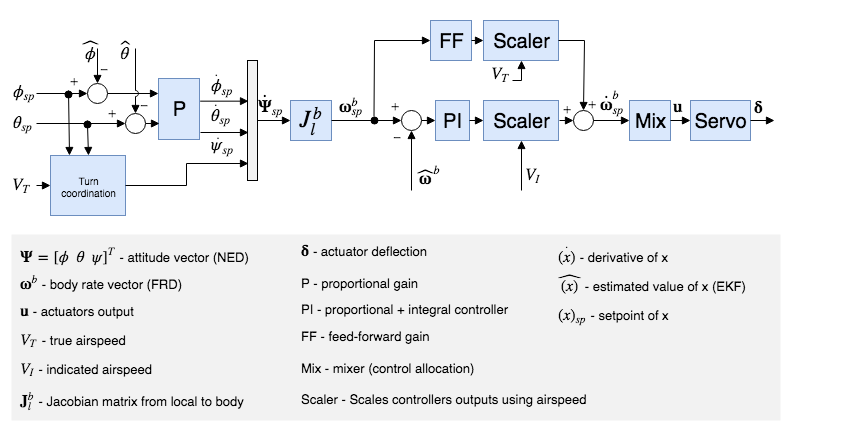
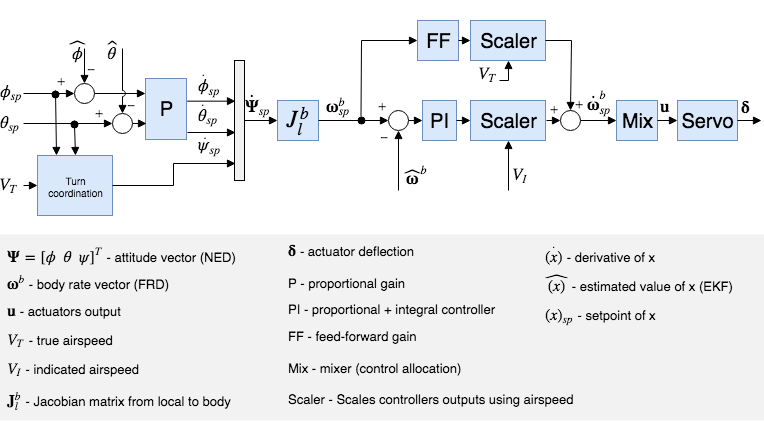
nearly done with the wing

diff --git a/_site/blog/wing/index.html b/_site/blog/wing/index.html
@@ -176,6 +176,10 @@
 				<td>GPS</td>
 				<td>mRo GPS module with a u-Blox Neo-M8N and included compass for 3D localization tuned for GPS and GLONASS networks</td>
 			</tr>
+			<tr>
+				<td>Telemetry Radios</td>
+				<td>mRo 915Mhz SiK telemetry radios for two-way telemetry downlink and command upload from the ground control station</td>
+			</tr>
 		</tbody>
 	</table>
 </div>
@@ -184,23 +188,42 @@
 
 <h3 id="px4-flight-stack">PX4 Flight Stack</h3>
 
-<p>I’ve used variants of the PX4 open source flight control firmware stack before, but only for multirotors. I read through the PX4 <a href="https://docs.px4.io/en/">User Guide</a> as well as the <a href="https://dev.px4.io/en/">Dev Guide</a> in order to better understand the important differences between the vehicle architectures. Aside from the low level controllers, mixers, and flight modes, there are few differences between the fixed-wing and multirotor workflows.</p>
+<p>I’ve used variants of the <a href="https://github.com/PX4/Firmware">PX4</a> open source flight control firmware before, but only for multirotors. I read through the PX4 <a href="https://docs.px4.io/en/">User Guide</a> as well as the <a href="https://dev.px4.io/en/">Dev Guide</a> in order to better understand the important differences between the vehicle architectures. Aside from the low level controllers, mixers, and flight modes, there are few differences between the fixed-wing and multirotor workflows.</p>
+
+<p>Now we can get into the good stuff: below is a block diagram for PX4’s stock fixed-wing attitude controller pulled from the dev guide. It’s a proportional attitude controller which cascades into a PI angular rates controller. The output of the controller is the desired angular acceleration, which is then translated into control surface servo position based on a priori knowledge of the vehicle - moments of inertia, area of the control surfaces, etc. These parameters can be collected from CAD or from manual test flights where the controller is turned off.</p>
+
+<p><span class="image main"><img src="/images/wing/part2/controller.png" alt=""></span></p>
+
+<p>Some points of interest on this controller: the scaler block which appears after the PI angular rates controller is a function of indicated airspeed. This is to account for the increase in control authority with increasing airspeed. Conversely, the control gains should be boosted at low airspeeds to achieve the same angular accelerations about each axis.</p>
+
+<p>Also, there’s a feedforward term that appears near the top of the diagram. This shows up to account for “aerodynamic damping.” This is a force experienced by a fixed wing aircraft, proportional to the angular rate about an axis, which resists that rotation. If you imagine pulling continuous barrel rolls in a delta wing aircraft, it’s intuitive that there’s some extra drag associated with churning the wings through the oncoming air. The feedforward term in the controller fights that damping effect.</p>
+
+<h3 id="autonomous-flight">Autonomous Flight</h3>
+
+<p>Here’s the completed wing <em>after</em> my first few test flights (you’ll notice its still in one piece).</p>
+
+<!-- something about how I threw the plane up to test autonomous flight without tuning anything or attempting any manual tests. preface the video saying who threw it and who was filming. something about having to strap the gopro to the top, what was the flight procedure???  -->
 
 <p><span class="image main"><img src="/images/wing/part2/13_wing_main.jpg" alt=""></span></p>
 
-<p><span class="image main"><img src="/images/wing/part2/controller.png" alt=""></span></p>
+<div class="video-wrapper">
+	<div class="video-responsive">
+		<iframe width="560" height="315" src="https://www.youtube.com/embed/DpW5teHLzwI?rel=0" frameborder="0" allow="autoplay; encrypted-media" allowfullscreen=""></iframe>
+	</div>
+</div>
+
+<h3 id="telemetry-analysis">Telemetry Analysis</h3>
+
+<p>My favorite part of this dive into the vanilla PX4 code base was the absolutely beautiful telemetry log viewer, its called Flight Review. <a href="https://logs.px4.io/plot_app?log=49eeeb7c-ef61-4775-9a70-3fd3f24ef544">Here</a> is a sample of the interface with my actual flight data. It’s a completely web-based interface with a dead simple UI. You simply upload a log file saved to the Pixhawk’s SD card for each flight and it displays the pertinent data in an intuitive and interactive way. There’s even built-in support for a full 3D renders of flight trajectory via <a href="https://cesiumjs.org/">Cesium</a>, including real time playback. Click <a href="https://logs.px4.io/3d?log=49eeeb7c-ef61-4775-9a70-3fd3f24ef544">here</a> to check out a Cesium render of one of my autonomous test flights performing a circular loiter at 50m in altitude at a 30m radius.</p>
+
+<p><span class="image main"><img src="/images/wing/part2/map.png" alt=""></span></p>
 
 <p><span class="image main"><img src="/images/wing/part2/attitude_plot.png" alt=""></span></p>
 
 <p><span class="image main"><img src="/images/wing/part2/roll_plot.png" alt=""></span></p>
 
-<p><span class="image main"><img src="/images/wing/part2/power_plot.png" alt=""></span></p>
-
-<p>[VIDEO EDIT OF FLIGHT TEST OF NEW BUILD]</p>
-
-<p>[SOME PICTURES OF GRAPHS AND 3D TRAJECTORY LOGGING IN PX4, SOME INFO ON THE CONTROL SYSTEM?]</p>
-
-<p>For a full 3D render of this test flight via <a href="https://cesiumjs.org/">Cesium</a>, including real time playback click <a href="https://logs.px4.io/3d?log=49eeeb7c-ef61-4775-9a70-3fd3f24ef544">here</a>.</p>
+<!-- [The project was fun, learned a lot, want to do some stuff in the future like what?]
+ -->
 
 
       		</section>

diff --git a/_posts/2018-08-01-wing.md b/_posts/2018-08-01-wing.md
@@ -122,6 +122,10 @@ Another six months passed, another semester came to a close, and finally I had t
 				<td>GPS</td>
 				<td>mRo GPS module with a u-Blox Neo-M8N and included compass for 3D localization tuned for GPS and GLONASS networks</td>
 			</tr>
+			<tr>
+				<td>Telemetry Radios</td>
+				<td>mRo 915Mhz SiK telemetry radios for two-way telemetry downlink and command upload from the ground control station</td>
+			</tr>
 		</tbody>
 	</table>
 </div>
@@ -130,24 +134,41 @@ Another six months passed, another semester came to a close, and finally I had t
 
 ### PX4 Flight Stack
 
-I've used variants of the PX4 open source flight control firmware stack before, but only for multirotors. I read through the PX4 [User Guide](https://docs.px4.io/en/) as well as the [Dev Guide](https://dev.px4.io/en/) in order to better understand the important differences between the vehicle architectures. Aside from the low level controllers, mixers, and flight modes, there are few differences between the fixed-wing and multirotor workflows.
+I've used variants of the [PX4](https://github.com/PX4/Firmware) open source flight control firmware before, but only for multirotors. I read through the PX4 [User Guide](https://docs.px4.io/en/) as well as the [Dev Guide](https://dev.px4.io/en/) in order to better understand the important differences between the vehicle architectures. Aside from the low level controllers, mixers, and flight modes, there are few differences between the fixed-wing and multirotor workflows.
+
+Now we can get into the good stuff: below is a block diagram for PX4's stock fixed-wing attitude controller pulled from the dev guide. It's a proportional attitude controller which cascades into a PI angular rates controller. The output of the controller is the desired angular acceleration, which is then translated into control surface servo position based on a priori knowledge of the vehicle - moments of inertia, area of the control surfaces, etc. These parameters can be collected from CAD or from manual test flights where the controller is turned off.
+
+<span class="image main"><img src="{{ "/images/wing/part2/controller.png" | absolute_url }}" alt="" /></span>
+
+Some points of interest on this controller: the scaler block which appears after the PI angular rates controller is a function of indicated airspeed. This is to account for the increase in control authority with increasing airspeed. Conversely, the control gains should be boosted at low airspeeds to achieve the same angular accelerations about each axis.
+
+Also, there's a feedforward term that appears near the top of the diagram. This shows up to account for "aerodynamic damping." This is a force experienced by a fixed wing aircraft, proportional to the angular rate about an axis, which resists that rotation. If you imagine pulling continuous barrel rolls in a delta wing aircraft, it's intuitive that there's some extra drag associated with churning the wings through the oncoming air. The feedforward term in the controller fights that damping effect. 
+
+### Autonomous Flight
+
+Here's the completed wing *after* my first few test flights (you'll notice its still in one piece). 
+
+<!-- something about how I threw the plane up to test autonomous flight without tuning anything or attempting any manual tests. preface the video saying who threw it and who was filming. something about having to strap the gopro to the top, what was the flight procedure???  -->
 
 <span class="image main"><img src="{{ "/images/wing/part2/13_wing_main.jpg" | absolute_url }}" alt="" /></span>
 
-<span class="image main"><img src="{{ "/images/wing/part2/controller.png" | absolute_url }}" alt="" /></span>
+<div class="video-wrapper">
+	<div class="video-responsive">
+		<iframe width="560" height="315" src="https://www.youtube.com/embed/DpW5teHLzwI?rel=0" frameborder="0" allow="autoplay; encrypted-media" allowfullscreen></iframe>
+	</div>
+</div>
+
+### Telemetry Analysis
+
+My favorite part of this dive into the vanilla PX4 code base was the absolutely beautiful telemetry log viewer, its called Flight Review. [Here](https://logs.px4.io/plot_app?log=49eeeb7c-ef61-4775-9a70-3fd3f24ef544) is a sample of the interface with my actual flight data. It's a completely web-based interface with a dead simple UI. You simply upload a log file saved to the Pixhawk's SD card for each flight and it displays the pertinent data in an intuitive and interactive way. There's even built-in support for a full 3D renders of flight trajectory via [Cesium](https://cesiumjs.org/), including real time playback. Click [here](https://logs.px4.io/3d?log=49eeeb7c-ef61-4775-9a70-3fd3f24ef544) to check out a Cesium render of one of my autonomous test flights performing a circular loiter at 50m in altitude at a 30m radius.
+
+<span class="image main"><img src="{{ "/images/wing/part2/map.png" | absolute_url }}" alt="" /></span>
 
 <span class="image main"><img src="{{ "/images/wing/part2/attitude_plot.png" | absolute_url }}" alt="" /></span>
 
 <span class="image main"><img src="{{ "/images/wing/part2/roll_plot.png" | absolute_url }}" alt="" /></span>
 
-<span class="image main"><img src="{{ "/images/wing/part2/power_plot.png" | absolute_url }}" alt="" /></span>
-
-[VIDEO EDIT OF FLIGHT TEST OF NEW BUILD]
-
-[SOME PICTURES OF GRAPHS AND 3D TRAJECTORY LOGGING IN PX4, SOME INFO ON THE CONTROL SYSTEM?]
-
-For a full 3D render of this test flight via [Cesium](https://cesiumjs.org/), including real time playback click [here](https://logs.px4.io/3d?log=49eeeb7c-ef61-4775-9a70-3fd3f24ef544).
-
-
+<!-- [The project was fun, learned a lot, want to do some stuff in the future like what?]
+ -->
 
 
